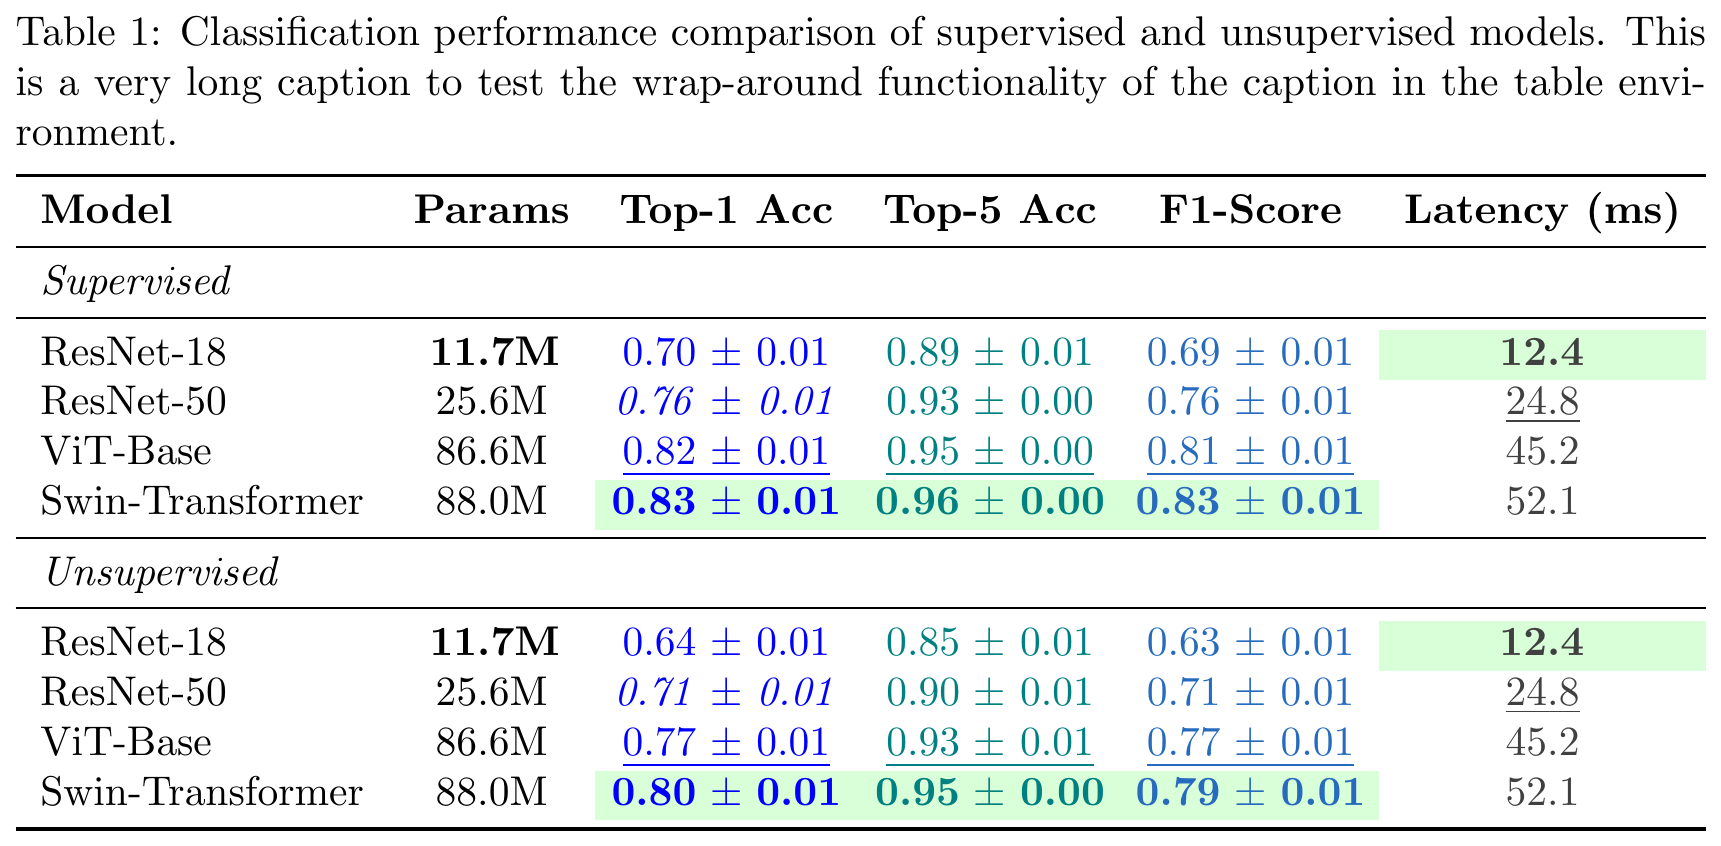
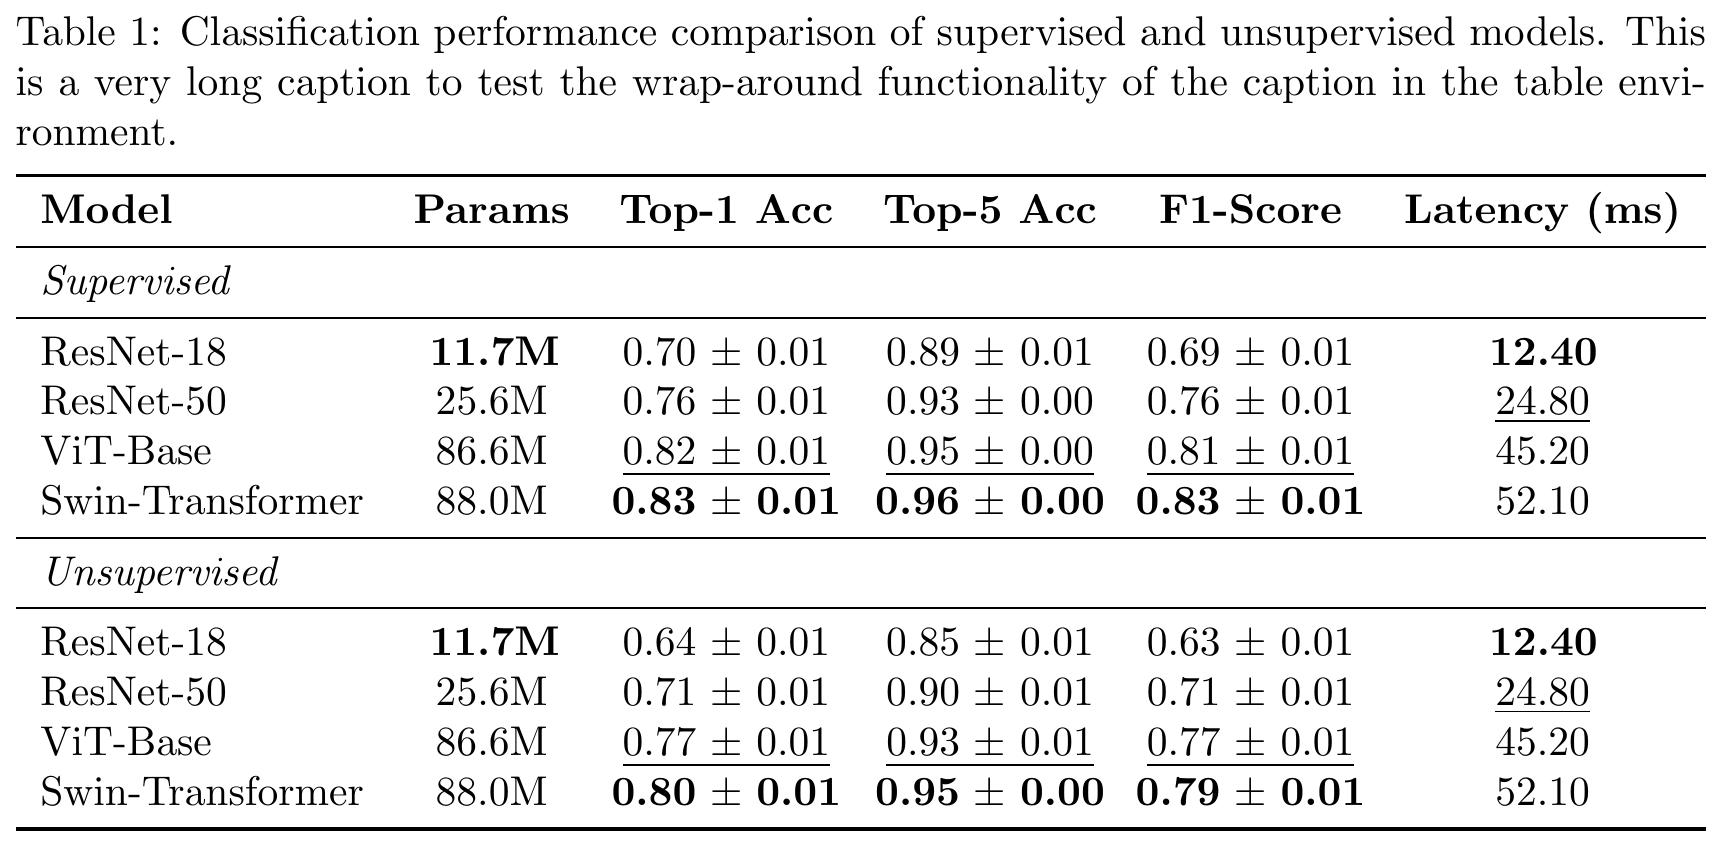
Update examples with rule copying for unsupervised groups

diff --git a/examples/table_output.tex b/examples/table_output.tex
@@ -8,21 +8,21 @@ This is a very long caption to test the wrap-around functionality of the caption
 \label{tab:model_comparison}
 \begin{tabular}{lccccc}
 \toprule
-\textbf{Model}   & \textbf{Params}                                                & \textbf{Top-1 Acc}                                                                                                                                                     & \textbf{Top-5 Acc}                                                                                                                                                     & \textbf{F1-Score}                                                                                                                                                          & \textbf{Latency (ms)} \\
+\textbf{Model}   & \textbf{Params}                                                & \textbf{Top-1 Acc}                                                                                                               & \textbf{Top-5 Acc}                                                                                                               & \textbf{F1-Score}                                                                                                                & \textbf{Latency (ms)} \\
 \midrule
 \multicolumn{6}{l}{\textit{Supervised}} \\
 \midrule
-ResNet-18        & \phantom{11}\llap{\textbf{11}}\rlap{\textbf{.7M}}\phantom{.7M} & \textcolor{blue}{0.70 \ensuremath{\pm} 0.01}                                                                                                                           & \textcolor{teal}{0.89 \ensuremath{\pm} 0.01}                                                                                                                           & \textcolor{NavyBlue}{0.69 \ensuremath{\pm} 0.01}                                                                                                                           & \cellcolor{green!15}\textcolor{darkgray}{\phantom{12}\llap{\textbf{12}}\rlap{\textbf{.4}}\phantom{.4}} \\
-ResNet-50        & 25.6M                                                          & \textcolor{blue}{\phantom{0.76}\llap{\textit{0.76}} \rlap{\textit{\ensuremath{\pm}}}\phantom{\ensuremath{\pm}} \rlap{\textit{0.01}}\phantom{0.01}}                     & \textcolor{teal}{0.93 \ensuremath{\pm} 0.00}                                                                                                                           & \textcolor{NavyBlue}{0.76 \ensuremath{\pm} 0.01}                                                                                                                           & \textcolor{darkgray}{\underline{24.8}} \\
-ViT-Base         & 86.6M                                                          & \textcolor{blue}{\underline{0.82 \ensuremath{\pm} 0.01}}                                                                                                               & \textcolor{teal}{\underline{0.95 \ensuremath{\pm} 0.00}}                                                                                                               & \textcolor{NavyBlue}{\underline{0.81 \ensuremath{\pm} 0.01}}                                                                                                               & \textcolor{darkgray}{45.2} \\
-Swin-Transformer & 88.0M                                                          & \cellcolor{green!15}\textcolor{blue}{\phantom{0.83}\llap{\textbf{0.83}} \rlap{\textbf{\ensuremath{\pm}}}\phantom{\ensuremath{\pm}} \rlap{\textbf{0.01}}\phantom{0.01}} & \cellcolor{green!15}\textcolor{teal}{\phantom{0.96}\llap{\textbf{0.96}} \rlap{\textbf{\ensuremath{\pm}}}\phantom{\ensuremath{\pm}} \rlap{\textbf{0.00}}\phantom{0.00}} & \cellcolor{green!15}\textcolor{NavyBlue}{\phantom{0.83}\llap{\textbf{0.83}} \rlap{\textbf{\ensuremath{\pm}}}\phantom{\ensuremath{\pm}} \rlap{\textbf{0.01}}\phantom{0.01}} & \textcolor{darkgray}{52.1} \\
+ResNet-18        & \phantom{11}\llap{\textbf{11}}\rlap{\textbf{.7M}}\phantom{.7M} & 0.70 \ensuremath{\pm} 0.01                                                                                                       & 0.89 \ensuremath{\pm} 0.01                                                                                                       & 0.69 \ensuremath{\pm} 0.01                                                                                                       & \phantom{12}\llap{\textbf{12}}\rlap{\textbf{.40}}\phantom{.40} \\
+ResNet-50        & 25.6M                                                          & 0.76 \ensuremath{\pm} 0.01                                                                                                       & 0.93 \ensuremath{\pm} 0.00                                                                                                       & 0.76 \ensuremath{\pm} 0.01                                                                                                       & \underline{24.80} \\
+ViT-Base         & 86.6M                                                          & \underline{0.82 \ensuremath{\pm} 0.01}                                                                                           & \underline{0.95 \ensuremath{\pm} 0.00}                                                                                           & \underline{0.81 \ensuremath{\pm} 0.01}                                                                                           & 45.20 \\
+Swin-Transformer & 88.0M                                                          & \phantom{0.83}\llap{\textbf{0.83}} \rlap{\textbf{\ensuremath{\pm}}}\phantom{\ensuremath{\pm}} \rlap{\textbf{0.01}}\phantom{0.01} & \phantom{0.96}\llap{\textbf{0.96}} \rlap{\textbf{\ensuremath{\pm}}}\phantom{\ensuremath{\pm}} \rlap{\textbf{0.00}}\phantom{0.00} & \phantom{0.83}\llap{\textbf{0.83}} \rlap{\textbf{\ensuremath{\pm}}}\phantom{\ensuremath{\pm}} \rlap{\textbf{0.01}}\phantom{0.01} & 52.10 \\
 \midrule
 \multicolumn{6}{l}{\textit{Unsupervised}} \\
 \midrule
-ResNet-18        & \phantom{11}\llap{\textbf{11}}\rlap{\textbf{.7M}}\phantom{.7M} & \textcolor{blue}{0.64 \ensuremath{\pm} 0.01}                                                                                                                           & \textcolor{teal}{0.85 \ensuremath{\pm} 0.01}                                                                                                                           & \textcolor{NavyBlue}{0.63 \ensuremath{\pm} 0.01}                                                                                                                           & \cellcolor{green!15}\textcolor{darkgray}{\phantom{12}\llap{\textbf{12}}\rlap{\textbf{.4}}\phantom{.4}} \\
-ResNet-50        & 25.6M                                                          & \textcolor{blue}{\phantom{0.71}\llap{\textit{0.71}} \rlap{\textit{\ensuremath{\pm}}}\phantom{\ensuremath{\pm}} \rlap{\textit{0.01}}\phantom{0.01}}                     & \textcolor{teal}{0.90 \ensuremath{\pm} 0.01}                                                                                                                           & \textcolor{NavyBlue}{0.71 \ensuremath{\pm} 0.01}                                                                                                                           & \textcolor{darkgray}{\underline{24.8}} \\
-ViT-Base         & 86.6M                                                          & \textcolor{blue}{\underline{0.77 \ensuremath{\pm} 0.01}}                                                                                                               & \textcolor{teal}{\underline{0.93 \ensuremath{\pm} 0.01}}                                                                                                               & \textcolor{NavyBlue}{\underline{0.77 \ensuremath{\pm} 0.01}}                                                                                                               & \textcolor{darkgray}{45.2} \\
-Swin-Transformer & 88.0M                                                          & \cellcolor{green!15}\textcolor{blue}{\phantom{0.80}\llap{\textbf{0.80}} \rlap{\textbf{\ensuremath{\pm}}}\phantom{\ensuremath{\pm}} \rlap{\textbf{0.01}}\phantom{0.01}} & \cellcolor{green!15}\textcolor{teal}{\phantom{0.95}\llap{\textbf{0.95}} \rlap{\textbf{\ensuremath{\pm}}}\phantom{\ensuremath{\pm}} \rlap{\textbf{0.00}}\phantom{0.00}} & \cellcolor{green!15}\textcolor{NavyBlue}{\phantom{0.79}\llap{\textbf{0.79}} \rlap{\textbf{\ensuremath{\pm}}}\phantom{\ensuremath{\pm}} \rlap{\textbf{0.01}}\phantom{0.01}} & \textcolor{darkgray}{52.1} \\
+ResNet-18        & \phantom{11}\llap{\textbf{11}}\rlap{\textbf{.7M}}\phantom{.7M} & 0.64 \ensuremath{\pm} 0.01                                                                                                       & 0.85 \ensuremath{\pm} 0.01                                                                                                       & 0.63 \ensuremath{\pm} 0.01                                                                                                       & \phantom{12}\llap{\textbf{12}}\rlap{\textbf{.40}}\phantom{.40} \\
+ResNet-50        & 25.6M                                                          & 0.71 \ensuremath{\pm} 0.01                                                                                                       & 0.90 \ensuremath{\pm} 0.01                                                                                                       & 0.71 \ensuremath{\pm} 0.01                                                                                                       & \underline{24.80} \\
+ViT-Base         & 86.6M                                                          & \underline{0.77 \ensuremath{\pm} 0.01}                                                                                           & \underline{0.93 \ensuremath{\pm} 0.01}                                                                                           & \underline{0.77 \ensuremath{\pm} 0.01}                                                                                           & 45.20 \\
+Swin-Transformer & 88.0M                                                          & \phantom{0.80}\llap{\textbf{0.80}} \rlap{\textbf{\ensuremath{\pm}}}\phantom{\ensuremath{\pm}} \rlap{\textbf{0.01}}\phantom{0.01} & \phantom{0.95}\llap{\textbf{0.95}} \rlap{\textbf{\ensuremath{\pm}}}\phantom{\ensuremath{\pm}} \rlap{\textbf{0.00}}\phantom{0.00} & \phantom{0.79}\llap{\textbf{0.79}} \rlap{\textbf{\ensuremath{\pm}}}\phantom{\ensuremath{\pm}} \rlap{\textbf{0.01}}\phantom{0.01} & 52.10 \\
 \bottomrule
 \end{tabular}
 \end{threeparttable}

diff --git a/examples/template.tex b/examples/template.tex
@@ -12,17 +12,17 @@ This is a very long caption to test the wrap-around functionality of the caption
 \midrule
 \multicolumn{6}{l}{\textit{Supervised}} \\
 \midrule
-ResNet-18        & [s_params]{s_res18.params} & [s_acc]{s_res18.acc_mean +- s_res18.acc_std}              & [s_top5]{s_res18.top_5_acc_mean +- s_res18.top_5_acc_std}              & [s_f1]{s_res18.f1_mean +- s_res18.f1_std}              & [s_latency]{s_res18.latency} \\
-ResNet-50        & [s_params]{s_res50.params} & [s_acc]{s_res50.acc_mean +- s_res50.acc_std}              & [s_top5]{s_res50.top_5_acc_mean +- s_res50.top_5_acc_std}              & [s_f1]{s_res50.f1_mean +- s_res50.f1_std}              & [s_latency]{s_res50.latency} \\
-ViT-Base         & [s_params]{s_vit.params}   & [s_acc]{s_vit.acc_mean +- s_vit.acc_std}                  & [s_top5]{s_vit.top_5_acc_mean +- s_vit.top_5_acc_std}                  & [s_f1]{s_vit.f1_mean +- s_vit.f1_std}                  & [s_latency]{s_vit.latency} \\
-Swin-Transformer & [s_params]{s_swin.params}  & [s_acc, top_performer]{s_swin.acc_mean +- s_swin.acc_std} & [s_top5, top_performer]{s_swin.top_5_acc_mean +- s_swin.top_5_acc_std} & [s_f1, top_performer]{s_swin.f1_mean +- s_swin.f1_std} & [s_latency]{s_swin.latency} \\
+ResNet-18        & [s_params]{s_res18.params}   & [s_acc]{s_res18.acc_mean +- s_res18.acc_std}    & [s_top5]{s_res18.top_5_acc_mean +- s_res18.top_5_acc_std}    & [s_f1]{s_res18.f1_mean +- s_res18.f1_std}    & [s_latency]{s_res18.latency} \\
+ResNet-50        & [s_params]{s_res50.params}   & [s_acc]{s_res50.acc_mean +- s_res50.acc_std}    & [s_top5]{s_res50.top_5_acc_mean +- s_res50.top_5_acc_std}    & [s_f1]{s_res50.f1_mean +- s_res50.f1_std}    & [s_latency]{s_res50.latency} \\
+ViT-Base         & [s_params]{s_vit.params}     & [s_acc]{s_vit.acc_mean +- s_vit.acc_std}        & [s_top5]{s_vit.top_5_acc_mean +- s_vit.top_5_acc_std}        & [s_f1]{s_vit.f1_mean +- s_vit.f1_std}        & [s_latency]{s_vit.latency} \\
+Swin-Transformer & [s_params]{s_swin.params}    & [s_acc]{s_swin.acc_mean +- s_swin.acc_std}      & [s_top5]{s_swin.top_5_acc_mean +- s_swin.top_5_acc_std}      & [s_f1]{s_swin.f1_mean +- s_swin.f1_std}      & [s_latency]{s_swin.latency} \\
 \midrule
 \multicolumn{6}{l}{\textit{Unsupervised}} \\
 \midrule
 ResNet-18        & [us_params]{us_res18.params} & [us_acc]{us_res18.acc_mean +- us_res18.acc_std} & [us_top5]{us_res18.top_5_acc_mean +- us_res18.top_5_acc_std} & [us_f1]{us_res18.f1_mean +- us_res18.f1_std} & [us_latency]{us_res18.latency} \\
 ResNet-50        & [us_params]{us_res50.params} & [us_acc]{us_res50.acc_mean +- us_res50.acc_std} & [us_top5]{us_res50.top_5_acc_mean +- us_res50.top_5_acc_std} & [us_f1]{us_res50.f1_mean +- us_res50.f1_std} & [us_latency]{us_res50.latency} \\
 ViT-Base         & [us_params]{us_vit.params}   & [us_acc]{us_vit.acc_mean +- us_vit.acc_std}     & [us_top5]{us_vit.top_5_acc_mean +- us_vit.top_5_acc_std}     & [us_f1]{us_vit.f1_mean +- us_vit.f1_std}     & [us_latency]{us_vit.latency} \\
-Swin-Transformer & [us_params]{us_swin.params}  & [us_acc]{us_swin.acc_mean +- us_swin.acc_std}    & [us_top5]{us_swin.top_5_acc_mean +- us_swin.top_5_acc_std}    & [us_f1]{us_swin.f1_mean +- us_swin.f1_std}    & [us_latency]{us_swin.latency} \\
+Swin-Transformer & [us_params]{us_swin.params}  & [us_acc]{us_swin.acc_mean +- us_swin.acc_std}   & [us_top5]{us_swin.top_5_acc_mean +- us_swin.top_5_acc_std}   & [us_f1]{us_swin.f1_mean +- us_swin.f1_std}   & [us_latency]{us_swin.latency} \\
 \bottomrule
 \end{tabular}
 \end{threeparttable}
